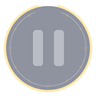
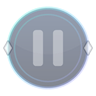
feat(art): gradient rims on the HUD in place of flat white frames
Gauge capsules, the pause/skip buttons (rim and inner ring), rank badges,
the SCORE/LIFE tags, life bars, heart, score bar and the score-rank plate
now carry pastel gradients in the backdrop's hues: rose-violet-blue on the
left of the screen, violet-blue-mint on the right.

diff --git a/ArtSource/Tools/AstralHud.cs b/ArtSource/Tools/AstralHud.cs
@@ -24,6 +24,21 @@ public static class AstralHud {
     static void Line(Graphics g,Color c,float width,params PointF[] points){using(var pen=new Pen(c,width)){pen.LineJoin=LineJoin.Bevel;g.DrawLines(pen,points);}}
     static void Fill(Graphics g,GraphicsPath path,Color c){using(var b=new SolidBrush(c))g.FillPath(b,path);}
     static void Stroke(Graphics g,GraphicsPath path,Color c,float width){using(var p=new Pen(c,width)){p.LineJoin=LineJoin.Bevel;g.DrawPath(p,path);}}
+    // HUD rims: a pastel gradient in the backdrop's hues (rose and violet on the left of the screen, blue and
+    // mint on the right) instead of a flat white line. `angle` is the gradient direction in degrees.
+    static Color Lt(Color c){return Mix(c,Color.White,.3f);}
+    static Color[] RimScore{get{return new[]{Lt(Pink),Lt(Purple),Lt(Blue)};}}
+    static Color[] RimLife{get{return new[]{Lt(Purple),Lt(Blue),Lt(Mint)};}}
+    static Color[] RimButton{get{return new[]{Lt(Mint),Lt(Blue),Lt(Purple)};}}
+    static void Rim(Graphics g,GraphicsPath path,float width,int alpha,float angle,params Color[] colors){
+        RectangleF r=path.GetBounds();r.Inflate(width+1,width+1);
+        var positions=new float[colors.Length];var stops=new Color[colors.Length];
+        for(int i=0;i<colors.Length;i++){positions[i]=i/(float)(colors.Length-1);stops[i]=A(alpha,colors[i]);}
+        using(var b=new LinearGradientBrush(r,Color.Black,Color.Black,angle)){
+            b.InterpolationColors=new ColorBlend{Positions=positions,Colors=stops};
+            using(var pen=new Pen(b,width)){pen.LineJoin=LineJoin.Bevel;g.DrawPath(pen,path);}
+        }
+    }
     static void Gradient(Graphics g,GraphicsPath path,Color top,Color bottom){RectangleF r=path.GetBounds();using(var b=new LinearGradientBrush(P(0,r.Top),P(0,r.Bottom+.01f),top,bottom))g.FillPath(b,path);}
     static void Bloom(Graphics g,GraphicsPath path,Color c,float strength,float radius){for(int i=(int)(radius*2);i>=2;i-=2){int alpha=(int)(strength*Math.Exp(-i*i/(2*radius*radius)));if(alpha>0)Stroke(g,path,A(alpha,c),i);}}
     static GraphicsPath StarPath(float x,float y,float r){return Polygon(P(x,y-r),P(x+r*.22f,y-r*.22f),P(x+r*.72f,y),P(x+r*.22f,y+r*.22f),P(x,y+r),P(x-r*.22f,y+r*.22f),P(x-r*.72f,y),P(x-r*.22f,y-r*.22f));}
@@ -112,17 +127,45 @@ public static class AstralHud {
         }
         for(int i=0;i<points.Count;i++){int best=-1;float dmin=r.Width*r.Width*.1f;for(int j=0;j<i;j++){float dx=points[j].X-points[i].X,dy=points[j].Y-points[i].Y,d=dx*dx+dy*dy;if(d<dmin){dmin=d;best=j;}}if(best>=0&&i%5!=0)Line(g,A(65,color),.7f,points[i],points[best]);}
     }
+    static GraphicsPath RR(float x,float y,float w,float h,float r){
+        r=Math.Min(r,Math.Min(w,h)/2);float d=r*2;var p=new GraphicsPath();
+        p.AddArc(x,y,d,d,180,90);p.AddArc(x+w-d,y,d,d,270,90);p.AddArc(x+w-d,y+h-d,d,d,0,90);p.AddArc(x,y+h-d,d,d,90,90);p.CloseFigure();return p;
+    }
+    static void Diamond(Graphics g,float x,float y,float hw,float hh,Color fill,Color edge){
+        using(var p=Polygon(P(x,y-hh),P(x+hw,y),P(x,y+hh),P(x-hw,y))){if(edge.A>0)Stroke(g,p,edge,2);Fill(g,p,fill);}
+    }
+    // The note skin's material (Tools/Notes/draw_skin.ps1): a saturated vertical gradient, a darker lower
+    // third, a gloss band on the upper half and a frame that runs from white into a pale tint of the glass.
+    static void PrismGlass(Graphics g,float x,float y,float w,float h,float r,Color top,Color mid,Color bot,float frame){
+        Color deep=Mix(bot,C("#1b2247"),.55f);
+        using(var face=RR(x,y,w,h,r)){
+            using(var b=new LinearGradientBrush(P(0,y-1),P(0,y+h+1),top,bot)){b.InterpolationColors=new ColorBlend{Positions=new[]{0f,.5f,1f},Colors=new[]{top,mid,bot}};g.FillPath(b,face);}
+            var clip=g.Save();g.SetClip(face);
+            using(var b=new SolidBrush(A(54,deep)))g.FillRectangle(b,x,y+h*.64f,w,h*.36f);
+            g.Restore(clip);
+        }
+        float inset=Math.Max(1.5f,h*.11f)+frame*.5f;
+        using(var gloss=RR(x+inset,y+inset,w-inset*2,h*.38f,Math.Max(1,r-inset)))
+        using(var b=new LinearGradientBrush(P(0,y+inset-1),P(0,y+inset+h*.38f+1),A(150,Color.White),A(30,Color.White)))g.FillPath(b,gloss);
+        if(frame>0)using(var p=RR(x+frame/2,y+frame/2,w-frame,h-frame,r-frame/2))Rim(g,p,frame,245,90,Color.White,Mix(top,Color.White,.6f),Mix(bot,Color.White,.38f));
+    }
     static void Compass(Graphics g,float x,float y,float radius,Color c,bool fill){
         var points=new PointF[12];for(int i=0;i<12;i++){double a=-Math.PI/2+i*Math.PI/6;float r=i%2==0?radius:radius*.63f;points[i]=P(x+(float)Math.Cos(a)*r,y+(float)Math.Sin(a)*r);}
         using(var p=Polygon(points)){if(fill)Gradient(g,p,Mix(c,Color.White,.2f),c);Stroke(g,p,Mix(c,Color.White,.8f),1.2f);}
         Star(g,x,y,radius*.35f,Color.White);
     }
     static void Heart(Graphics g,RectangleF r,Color c){using(var p=new GraphicsPath()){
-        p.AddBezier(r.X+r.Width*.5f,r.Y+r.Height*.22f,r.X+r.Width*.15f,r.Y-r.Height*.18f,r.X-r.Width*.18f,r.Y+r.Height*.28f,r.X+r.Width*.13f,r.Y+r.Height*.55f);
-        p.AddLine(r.X+r.Width*.13f,r.Y+r.Height*.55f,r.X+r.Width*.5f,r.Bottom);
-        p.AddBezier(r.X+r.Width*.5f,r.Bottom,r.X+r.Width*1.2f,r.Y+r.Height*.43f,r.X+r.Width*.95f,r.Y-r.Height*.17f,r.X+r.Width*.5f,r.Y+r.Height*.22f);p.CloseFigure();
-        Gradient(g,p,Mix(c,Color.White,.65f),c);Stroke(g,p,Mix(c,Color.White,.8f),1);
-        Line(g,A(170,Color.White),.8f,P(r.X+r.Width*.25f,r.Y+r.Height*.36f),P(r.X+r.Width*.5f,r.Y+r.Height*.7f),P(r.X+r.Width*.8f,r.Y+r.Height*.38f));
+        // A symmetric glass heart: saturated gradient, a gloss spot on the left lobe and a white-to-tint frame.
+        float cx=r.X+r.Width*.5f,w=r.Width,h=r.Height;
+        p.AddBezier(cx,r.Y+h*.26f,cx-w*.14f,r.Y-h*.06f,r.X-w*.04f,r.Y+h*.02f,r.X+w*.03f,r.Y+h*.36f);
+        p.AddBezier(r.X+w*.03f,r.Y+h*.36f,r.X+w*.08f,r.Y+h*.62f,cx-w*.2f,r.Y+h*.8f,cx,r.Bottom);
+        p.AddBezier(cx,r.Bottom,cx+w*.2f,r.Y+h*.8f,r.Right-w*.08f,r.Y+h*.62f,r.Right-w*.03f,r.Y+h*.36f);
+        p.AddBezier(r.Right-w*.03f,r.Y+h*.36f,r.Right+w*.04f,r.Y+h*.02f,cx+w*.14f,r.Y-h*.06f,cx,r.Y+h*.26f);p.CloseFigure();
+        Gradient(g,p,Mix(c,Color.White,.4f),Mix(c,C("#3a2f6b"),.18f));
+        var clip=g.Save();g.SetClip(p);
+        using(var b=new SolidBrush(A(120,Color.White)))g.FillEllipse(b,r.X+w*.14f,r.Y+h*.14f,w*.27f,h*.2f);
+        g.Restore(clip);
+        Rim(g,p,1.6f,245,90,Color.White,Mix(c,Color.White,.45f));
     }}
 
     static readonly HashSet<string> Keep=new HashSet<string>{"16_9_white.png","bg_base_wh.png","bg_base_ingame_wh.png","bg_base_ingame_wh_2.png","white6x6.png","bg_hiLight_mask.png","mask_line.png"};
@@ -219,7 +262,7 @@ public static class AstralHud {
             string text=n.StartsWith("score_")?n.Substring(6,1):n.Substring(0,1);bool large=n.StartsWith("score_");
             Color c=text=="S"?Gold:text=="A"?Purple:text=="B"?Blue:Mint;
             if(large){AstralType(g,text,new RectangleF(6,6,w-12,h-20),c,false,false,false);Line(g,A(180,c),1,P(w*.2f,h-6),P(w*.8f,h-6));Star(g,w*.5f,h-6,2.6f,c);}
-            else{using(var p=Bevel(1,1,w-2,h-2,7)){Fill(g,p,A(200,Navy));Stroke(g,p,A(150,c),.7f);}Plain(g,text,new RectangleF(7,5,w-14,h-11),Color.White,false);}return true;
+            else{using(var p=RR(1.5f,1.5f,w-3,h-3,8)){Gradient(g,p,A(240,C("#22355a")),A(240,C("#0b1328")));Rim(g,p,1.5f,240,60,Mix(c,Color.White,.62f),Lt(c),Mix(c,Purple,.4f));}Plain(g,text,new RectangleF(8,7,w-16,h-14),Mix(c,Color.White,.3f),false);}return true;
         }
         if(n.StartsWith("tex_live_countdown")){
             string digit=Regex.Match(n,@"_(\d)\.png$").Groups[1].Value;
@@ -235,49 +278,79 @@ public static class AstralHud {
     static bool HudAsset(Graphics g,string n,int w,int h){
         if(n.StartsWith("btn_")){
             bool disabled=n.Contains("disable");Color c=n.StartsWith("btn_stop")?Gold:disabled?C("#8b93a7"):Mint;
-            using(var p=new GraphicsPath()){p.AddEllipse(6,6,w-12,h-12);Fill(g,p,A(disabled?120:225,Navy));}
-            using(var pen=new Pen(A(disabled?110:230,c),2.3f))g.DrawArc(pen,5,5,w-10,h-10,-78,336);
-            using(var pen=new Pen(A(disabled?70:120,Color.White),.7f))g.DrawArc(pen,10,10,w-20,h-20,-70,320);
-            for(int i=1;i<12;i++){double a=-Math.PI/2+i*Math.PI/6;Line(g,A(disabled?70:170,c),1,P(w/2f+(float)Math.Cos(a)*36,h/2f+(float)Math.Sin(a)*36),P(w/2f+(float)Math.Cos(a)*39,h/2f+(float)Math.Sin(a)*39));}
+            // "Prism" HUD: a dark glass disc with a gradient rim, a thin accent ring and two gems.
+            float cx=w/2f,cy=h/2f,r=40;
+            using(var disc=new GraphicsPath()){
+                disc.AddEllipse(cx-r,cy-r,r*2,r*2);
+                if(!disabled)Bloom(g,disc,c,5,5);
+                Gradient(g,disc,A(disabled?130:238,C("#22355a")),A(disabled?130:238,C("#0b1328")));
+                var clip=g.Save();g.SetClip(disc);
+                using(var b=new SolidBrush(A(disabled?12:30,Color.White)))g.FillEllipse(b,cx-r*1.3f,cy-r*2.05f,r*2.6f,r*2.2f);
+                g.Restore(clip);
+                Rim(g,disc,3,disabled?110:245,45,RimButton);
+            }
+            // The inner ring repeats the rim's gradient.
+            using(var ring=new GraphicsPath()){ring.AddEllipse(cx-33.5f,cy-33.5f,67,67);Rim(g,ring,1.4f,disabled?70:220,45,RimButton);}
+            foreach(float gx in new[]{cx-r,cx+r})Diamond(g,gx,cy,4,7,A(disabled?130:255,Color.White),A(disabled?60:170,Navy));
             Color ink=A(disabled?100:255,Color.White);
             if(n.Contains("skip")){
                 using(var p=Polygon(P(29,30),P(48,48),P(29,66)))Fill(g,p,ink);
                 using(var p=Polygon(P(48,30),P(67,48),P(48,66)))Fill(g,p,ink);
                 Line(g,ink,3,P(70,31),P(70,65));
-            }else foreach(int x in new[]{33,54})using(var p=Bevel(x,30,10,36,2))Fill(g,p,ink);
+            }else foreach(int x in new[]{33,53})using(var p=RR(x,30,10,36,3))Fill(g,p,ink);
             return true;
         }
         if(n=="bg_lifeGauge.png"||n=="bg_scoreGauge.png"){
-            Color c=Gold;
-            // Label and corners remain inside the manifest's fixed left/right borders.
-            using(var p=Bevel(1,30,w-2,48,12)){Gradient(g,p,A(235,C("#15263f")),A(235,C("#0b142a")));Stroke(g,p,A(175,c),1);}
-            using(var p=Bevel(24,3,110,32,6)){Gradient(g,p,A(245,C("#223653")),A(245,Navy));Stroke(g,p,A(170,c),.8f);}
-            Star(g,17,18,6,c);
-            if(n.Contains("life"))NaturalPlain(g,"LIFE",new RectangleF(38,10,83,17),Color.White);
-            else Plain(g,"SCORE",new RectangleF(38,10,83,17),Color.White,false);
-            Line(g,A(95,Color.White),.8f,P(14,73),P(w-14,73));return true;
+            bool life=n.Contains("life");
+            // A dark glass capsule holds the bar; a saturated glass tag (the note skin's material) names it.
+            // Tag and capsule ends stay inside the manifest's fixed left/right borders.
+            using(var p=RR(2,28,w-4,46,23)){
+                Gradient(g,p,A(232,C("#1d2d4d")),A(238,C("#0a1226")));
+                var clip=g.Save();g.SetClip(p);
+                using(var b=new SolidBrush(A(20,Color.White)))g.FillRectangle(b,0,28,w,17);
+                g.Restore(clip);
+                Rim(g,p,1.6f,240,0,life?RimLife:RimScore);
+            }
+            using(var p=RR(4.8f,30.8f,w-9.6f,40.4f,20.2f))Stroke(g,p,A(95,life?Mint:Purple),1);
+            Color top=life?Mix(Mint,Color.White,.35f):Mix(Purple,Color.White,.15f),mid=life?Mint:Mix(Purple,Blue,.5f),bot=life?Mix(Mint,C("#3a2f6b"),.14f):Blue;
+            PrismGlass(g,8,2,126,31,9,top,mid,bot,1.8f);
+            Diamond(g,23,17.5f,5,9,Color.White,A(150,Mix(bot,C("#1b2247"),.55f)));
+            if(life)NaturalPlain(g,"LIFE",new RectangleF(38,10,83,16),Navy);
+            else Plain(g,"SCORE",new RectangleF(38,10,83,16),Navy,false);
+            return true;
         }
         if(n.StartsWith("bar_lifeGauge")||n.StartsWith("gauge_base")){
-            bool isBase=n.StartsWith("gauge_base");Color c=isBase?C("#27364f"):n.Contains("rd")?Pink:Mint;
-            using(var p=Bevel(0,.5f,w,h-1,5)){
-                Gradient(g,p,isBase?C("#17233c"):Mix(c,Color.White,.5f),c);
-                Stroke(g,p,isBase?A(120,Blue):A(210,Color.White),.6f);
+            if(n.StartsWith("gauge_base")){
+                using(var p=RR(.5f,.5f,w-1,h-1,7.5f)){Gradient(g,p,A(245,C("#070c1c")),A(245,C("#16223d")));Stroke(g,p,A(70,Color.White),.8f);}
+                return true;
             }
-            Line(g,A(isBase?50:145,Color.White),.7f,P(8,3),P(w-8,3));
-            Line(g,A(100,isBase?Color.Black:Navy),1,P(7,h-2),P(w-7,h-2));return true;
+            Color c=n.Contains("rd")?Pink:Mint;
+            PrismGlass(g,.5f,.5f,w-1,h-1,7.5f,Mix(c,Color.White,.45f),c,Mix(c,C("#3a2f6b"),.16f),1.2f);return true;
         }
         if(n=="gauge_bar_ingame_freeLive_s.png"){
-            using(var p=Bevel(1,1,w-2,h-2,6)){
+            using(var p=RR(1,1,w-2,h-2,11)){
                 using(var b=new LinearGradientBrush(P(0,0),P(w,0),Mint,Pink)){
                     var blend=new ColorBlend();blend.Positions=new[]{0f,.32f,.66f,1f};blend.Colors=new[]{Mint,Blue,Purple,Pink};b.InterpolationColors=blend;g.FillPath(b,p);
-                }Stroke(g,p,A(200,Color.White),.8f);
-            }Line(g,A(150,Color.White),1,P(8,4),P(w-8,4));return true;
+                }
+                var clip=g.Save();g.SetClip(p);
+                using(var b=new LinearGradientBrush(P(0,2),P(0,12.5f),A(150,Color.White),A(28,Color.White)))g.FillRectangle(b,0,3.2f,w,8.6f);
+                using(var b=new SolidBrush(A(48,C("#1b2247"))))g.FillRectangle(b,0,h*.66f,w,h);
+                g.Restore(clip);Rim(g,p,1.4f,240,0,Mix(Mint,Color.White,.62f),Mix(Blue,Color.White,.62f),Mix(Purple,Color.White,.62f),Mix(Pink,Color.White,.62f));
+            }return true;
         }
         if(n=="icon_heart_gn.png"){Heart(g,new RectangleF(2,3,w-4,h-6),Mint);return true;}
         if(n=="meter_mark.png"){
-            using(var p=Polygon(P(2,3),P(w-2,3),P(w*.5f,h-3)))Gradient(g,p,Color.White,Mix(Blue,Color.White,.4f));Star(g,w*.5f,7,2.5f,Navy);return true;
+            // A kite-shaped gem pointing down at its threshold.
+            using(var p=Polygon(P(w*.5f,2),P(w-4,9),P(w*.5f,h-2),P(4,9))){Stroke(g,p,A(170,Navy),2);Gradient(g,p,Color.White,Mix(Blue,Color.White,.55f));}
+            return true;
         }
-        if(n.StartsWith("effect_")||n=="bg_cutin_skill_judge.png"){
+        if(n.StartsWith("effect_")){
+            // Glow that hugs the gauge capsule.
+            Color c=n.Contains("score")?Gold:Mint;float top=h*.28f,bottom=h*.78f;
+            using(var p=RR(15,top,w-23,bottom-top,(bottom-top)/2)){Bloom(g,p,c,6,Math.Min(17,h*.11f));Stroke(g,p,A(235,c),1.7f);Stroke(g,p,A(150,Color.White),.7f);}
+            return true;
+        }
+        if(n=="bg_cutin_skill_judge.png"){
             bool score=n.Contains("score"),panel=n.StartsWith("bg_");Color c=score?Gold:panel?Purple:Mint;
             float left=score?76:36,top=h*.28f,bottom=h*.78f;
             using(var p=Polygon(P(15,h*.5f),P(left,top),P(w-22,top),P(w-8,h*.5f),P(w-34,bottom),P(left,bottom))){

diff --git a/ArtSource/Tools/AstralBackgrounds.cs b/ArtSource/Tools/AstralBackgrounds.cs
@@ -144,17 +144,18 @@ public static class AstralBackgrounds {
         using(var g=Graphics.FromImage(image)){
             g.SmoothingMode=SmoothingMode.AntiAlias;
             using(var silhouette=Rounded(1,1,w-2,h-2,53))g.SetClip(silhouette);
-            // Compact in-game rank tile: the large dynamic letter and SCORERANK label own the centre.
-            using(var b=new LinearGradientBrush(P(0,0),P(0,h),C("#1c2d47"),C("#0c1b2a")))g.FillRectangle(b,0,0,w,h);
-            Color warm=C("#ffc56c"),warmShadow=C("#dba16b");
-            using(var b=new LinearGradientBrush(P(0,0),P(w*.17f,0),A(12,warm),A(0,warm)))g.FillRectangle(b,0,0,w*.17f,h);
-            using(var b=new LinearGradientBrush(P(w*.83f,0),P(w,0),A(0,warmShadow),A(10,warmShadow)))g.FillRectangle(b,w*.83f,0,w*.17f,h);
+            // Compact in-game rank tile in the HUD's dark glass (AstralHud gauge capsules): the large dynamic
+            // letter and SCORERANK label own the centre.
+            using(var b=new LinearGradientBrush(P(0,0),P(0,h),C("#1d2d4d"),C("#0a1226")))g.FillRectangle(b,0,0,w,h);
+            using(var b=new SolidBrush(A(20,Color.White)))g.FillRectangle(b,0,0,w,h*.37f);
             using(var b=new LinearGradientBrush(P(0,h*.78f),P(0,h),A(0,C("#071622")),A(80,C("#071622"))))g.FillRectangle(b,0,h*.78f,w,h*.22f);
-            // Rounded rim that stays readable at roughly 54 x 74 display pixels.
-            using(var p=Rounded(3,3,w-6,h-6,51))
-            using(var brush=new LinearGradientBrush(P(0,0),P(w,h),A(210,warm),A(185,warmShadow)))
-            using(var pen=new Pen(brush,5.4f))g.DrawPath(pen,p);
-            using(var p=Rounded(13,13,w-26,h-26,42))using(var pen=new Pen(A(32,Color.White),1.4f))g.DrawPath(pen,p);
+            // Gradient rim (the HUD's rose-violet-blue, AstralHud.RimScore) and a violet hairline, sized to read
+            // at roughly 110 x 150 display pixels.
+            using(var p=Rounded(5,5,w-10,h-10,49))using(var rim=new LinearGradientBrush(new RectangleF(-4,-4,w+8,h+8),Color.Black,Color.Black,55f)){
+                rim.InterpolationColors=new ColorBlend{Positions=new[]{0f,.5f,1f},Colors=new[]{A(240,Mix(Pink,Color.White,.3f)),A(240,Mix(Purple,Color.White,.3f)),A(240,Mix(Blue,Color.White,.3f))}};
+                using(var pen=new Pen(rim,8f))g.DrawPath(pen,p);
+            }
+            using(var p=Rounded(15,15,w-30,h-30,40))using(var pen=new Pen(A(95,Purple),4f))g.DrawPath(pen,p);
         }return image;
     }
     static Bitmap ParticleAtlas(){
